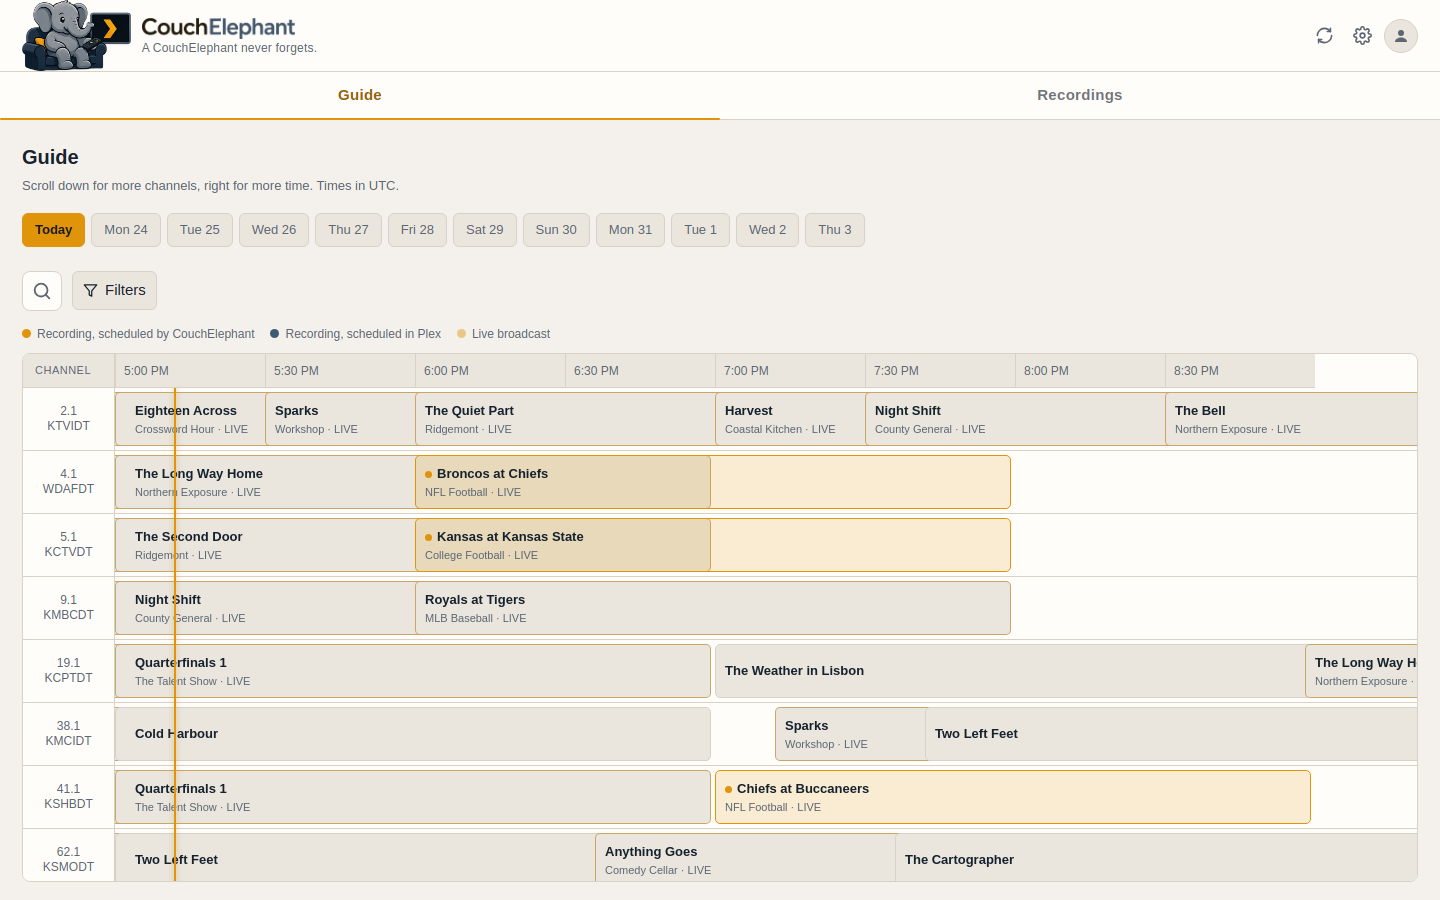
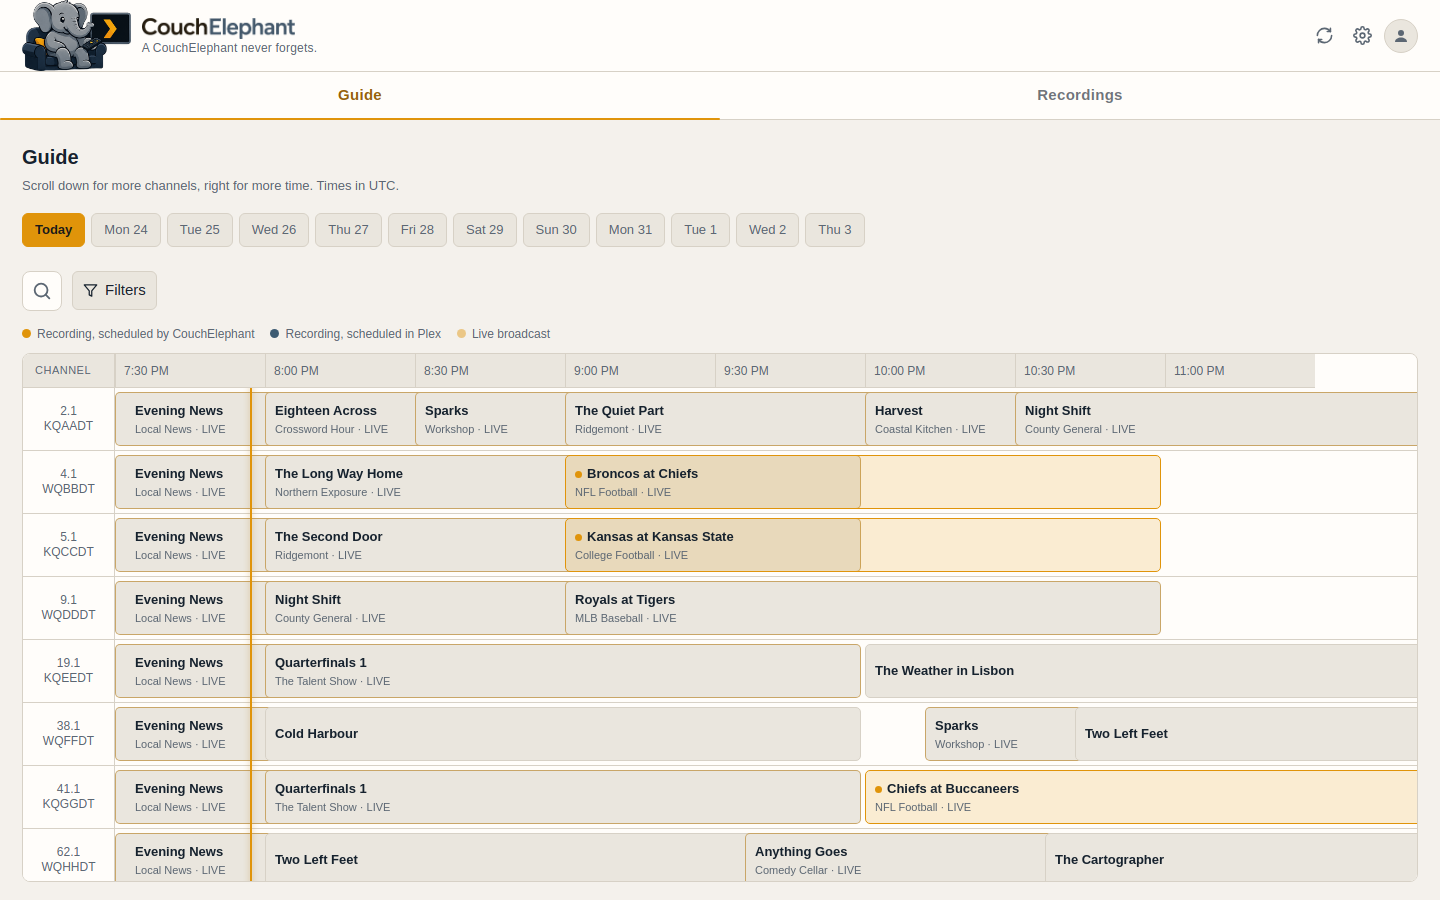
The demo lineup no longer copies one real market, and the build context is tighter
The demo guide used eight real Kansas City call signs with their real network
affiliations. A screenshot of it names the author's television market and,
with the channel numbers, their tuner's lineup. They are invented now: a Q as
the second letter is effectively unused by US television, so they collide with
nobody and read as made up.

.dockerignore now excludes __pycache__ and the caches. A .pyc carries the
absolute path it was compiled from, so a local build shipped the builder's
home directory inside the image. The published image was built by Actions from
a clean checkout and never carried one; a contributor's build would have.

Claude-Session: https://claude.ai/code/session_01XM6MJb5PzRb7XSwa3SEwsD

diff --git a/tests/demo_guide.py b/tests/demo_guide.py
@@ -13,6 +13,8 @@ one person's viewing.
 Set COUCHELEPHANT_DEMO_GUIDE=1 before importing fake_plex.
 """
 
+# The call signs are invented. A real lineup names one person's market and
+# their tuner, which is not the demo's business.
 CHANNELS = {
     "2.1": ("KQAADT", "2.1 KQAADT (FOX)"),
     "4.1": ("WQBBDT", "4.1 WQBBDT (FOX)"),
